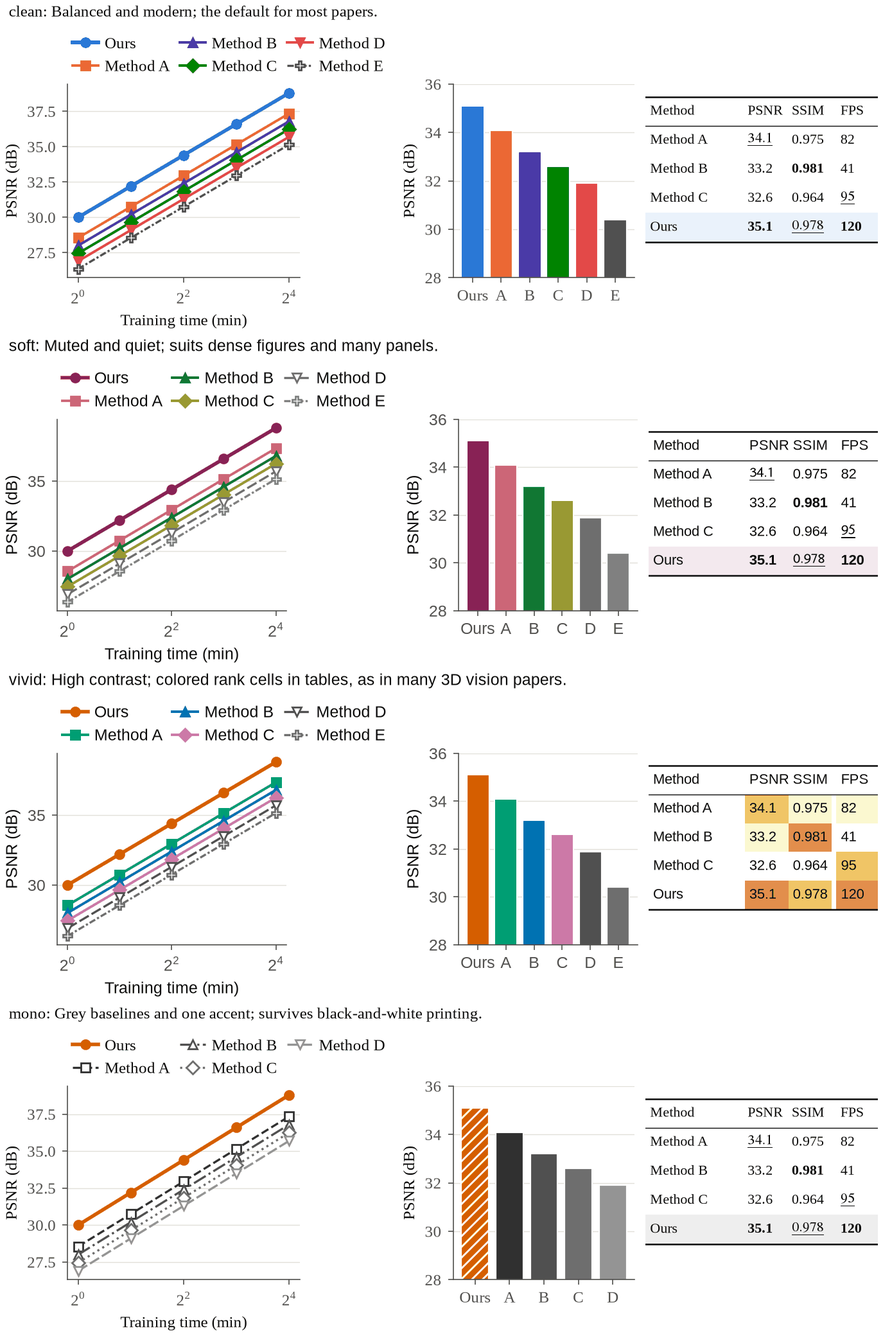
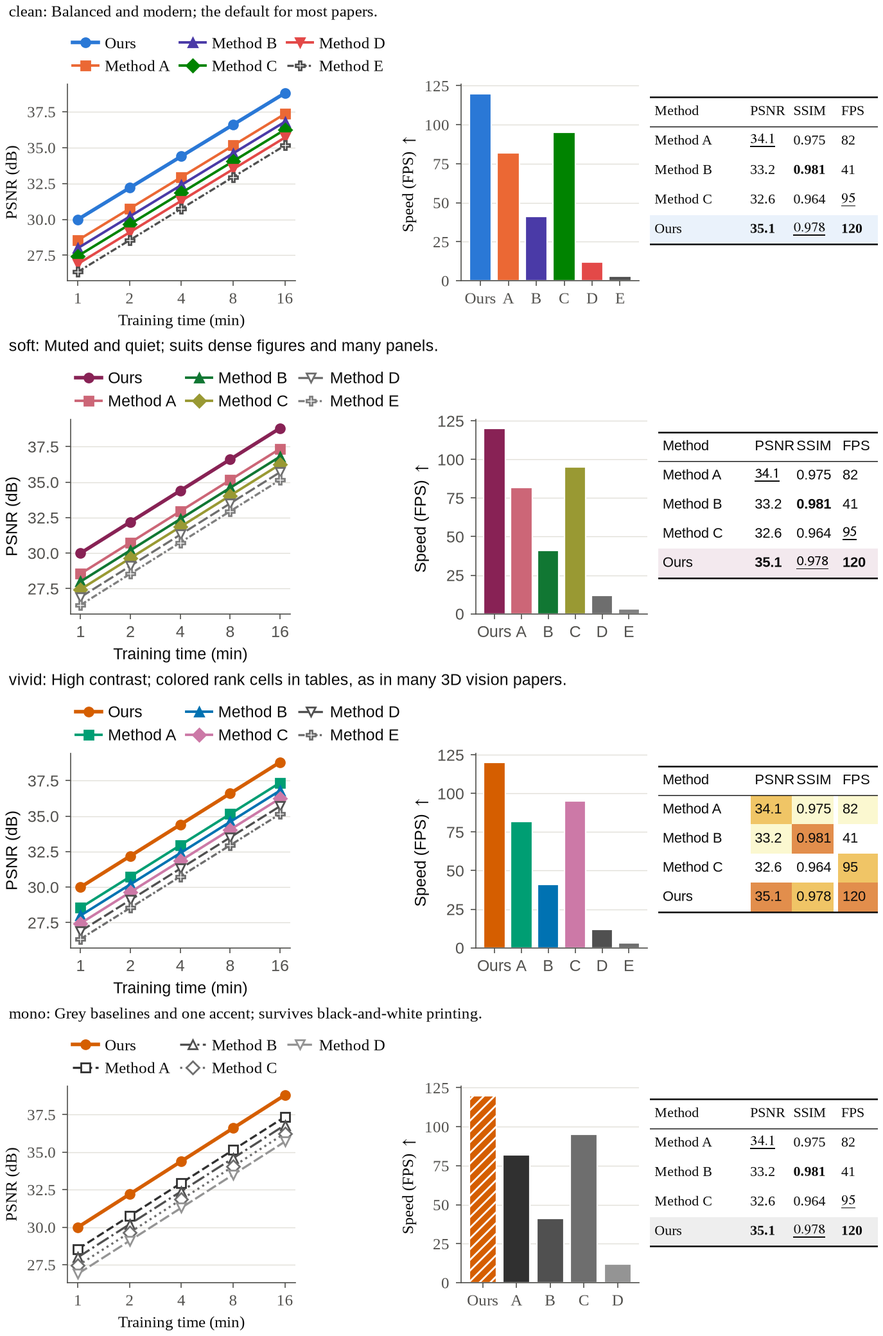
Pick the figure form from the message before drawing
Add "Pick the Form for the Message" to figure-table-styles.md: write the
message first, name the comparison, pick the form from a message-to-form
table, test it at print size, plus worked examples and forms to avoid.
Add scripts/figure_forms.py with one function per plot form and a gallery
(docs/figure-forms.png). A2.1, A2.6, and the Output Contract now ask for
the message and form of each figure. The style preview's bar chart now
starts at zero, as the new guide requires.

Claude-Session: https://claude.ai/code/session_01781meZ7Cfd1gjd3kFhT1wL

diff --git a/research-paper-writing/scripts/figure_forms.py b/research-paper-writing/scripts/figure_forms.py
@@ -1,0 +1,219 @@
+#!/usr/bin/env python3
+r"""Plot forms for the most common messages of ML papers, drawn with paperstyle.
+
+Write the message first, pick its form in references/figure-table-styles.md
+("Pick the Form for the Message"), then copy this file and paperstyle.py next
+to your figure code and call the matching function with your own data:
+
+    import matplotlib.pyplot as plt
+    import paperstyle, figure_forms as ff
+    paperstyle.use("clean")
+    st = paperstyle.method_styles(ALL_METHODS, ours="Ours")  # every method, table order
+    fig, ax = plt.subplots()                                   # one column: 3.25 x 2.2 in
+    ff.tradeoff(ax, st, {"Ours": (110, 33.6), "Method A": (2, 33.1)},
+                r"Speed (FPS) $\uparrow$", r"PSNR (dB) $\uparrow$")
+    fig.savefig("figures/tradeoff.pdf")
+
+The functions draw no legend, so one legend can serve all panels of a figure.
+From the command line, draw every form with illustrative data:
+
+    python3 figure_forms.py clean figure-forms.png   # needs matplotlib
+"""
+import sys
+
+import paperstyle
+
+OURS = "Ours"
+LOSS = "#8e8e8e"  # bars where ours loses: grey, so the gains carry the accent
+
+
+def _log_x(ax):
+    """Log x-axis with plain tick labels (0.1, 1, 10), not powers of ten."""
+    from matplotlib.ticker import FuncFormatter, NullFormatter
+    ax.set_xscale("log")
+    ax.xaxis.set_major_formatter(FuncFormatter(lambda v, _: f"{v:g}"))
+    ax.xaxis.set_minor_formatter(NullFormatter())
+
+
+def tradeoff(ax, st, points, xlabel, ylabel, logx=True, nudge=None, ours=OURS):
+    """Better and cheaper: one point per method, quality against cost.
+
+    points maps a method to (cost, quality). Put cost on a log axis when it
+    spans orders of magnitude. Ours should sit alone in the best corner.
+    Points carry direct labels; nudge maps a method to a label offset in points.
+    """
+    nudge = nudge or {}
+    for m, (x, y) in points.items():
+        s = st[m]
+        ax.plot(x, y, linestyle="none", marker=s["marker"], color=s["color"],
+                markerfacecolor=s.get("markerfacecolor", s["color"]),
+                markersize=8 if m == ours else 6, zorder=s["zorder"])
+        ax.annotate(m, (x, y), textcoords="offset points", xytext=nudge.get(m, (6, 3)),
+                    fontweight="bold" if m == ours else "normal")
+    if logx:
+        _log_x(ax)
+    ax.set_xlabel(xlabel)
+    ax.set_ylabel(ylabel)
+
+
+def curves(ax, st, x, ys, xlabel, ylabel, logx=False):
+    """A trend over a setting (data size, noise level, iterations): one line per method.
+
+    ys maps a method to its values at x. Put x on a log axis for sizes that
+    grow by factors (data, parameters, compute).
+    """
+    for m, y in ys.items():
+        ax.plot(x, y, label=m, **st[m])
+    if logx:
+        _log_x(ax)
+    ax.set_xlabel(xlabel)
+    ax.set_ylabel(ylabel)
+
+
+def gain_bars(ax, gains, xlabel, color, loss_color=LOSS):
+    """Where the gain comes from: ours minus the best baseline for each group.
+
+    gains maps a group (category, difficulty bin, dataset) to the gain. Bars
+    are sorted, start at zero, and keep losses visible in grey.
+    """
+    items = sorted(gains.items(), key=lambda kv: kv[1])
+    vals = [v for _, v in items]
+    ax.barh([k for k, _ in items], vals, height=0.7,
+            color=[color if v >= 0 else loss_color for v in vals])
+    ax.axvline(0, color=paperstyle.INK_2, linewidth=0.8)
+    ax.yaxis.grid(False)
+    ax.xaxis.grid(True)
+    ax.tick_params(axis="y", length=0)
+    ax.set_xlabel(xlabel)
+
+
+def cdf(ax, st, samples, xlabel, logx=True, points=60):
+    """Consistency and failures: the share of samples with an error at most x.
+
+    samples maps a method to its per-sample errors. A curve further up and
+    to the left is better; where it reaches 100% shows the tail of large errors.
+    """
+    import numpy as np
+    values = {m: np.sort(np.asarray(v, dtype=float)) for m, v in samples.items()}
+    both = np.concatenate(list(values.values()))
+    lo, hi = (both[both > 0].min() if logx else both.min()), both.max()
+    grid = np.geomspace(lo, hi, points) if logx else np.linspace(lo, hi, points)
+    for m, v in values.items():
+        share = np.searchsorted(v, grid, side="right") / len(v) * 100
+        ax.plot(grid, share, label=m, markevery=max(1, points // 6), **st[m])
+    if logx:
+        _log_x(ax)
+    ax.set_ylim(0, 102)
+    ax.set_xlabel(xlabel)
+    ax.set_ylabel("Samples below this error (%)")
+
+
+def sensitivity(ax, style, x, y, default, xlabel, ylabel, reference=None,
+                reference_label="Best baseline", stable=None, logx=True):
+    """Insensitive to a setting: ours over the range of one hyperparameter.
+
+    style is the style of ours from method_styles. The dotted line marks the
+    default; the dashed grey line is the best baseline, so the reader sees
+    how far ours stays ahead; stable=(low, high) shades the range to point out.
+    """
+    if stable:
+        ax.axvspan(*stable, color=style["color"], alpha=0.08, linewidth=0)
+    if reference is not None:
+        ax.axhline(reference, color=LOSS, linestyle="--", linewidth=1.2)
+        ax.annotate(reference_label, (x[0], reference), textcoords="offset points",
+                    xytext=(0, -11))
+    ax.axvline(default, color=paperstyle.INK_2, linestyle=":", linewidth=1.0)
+    ax.annotate("default", (default, 1), xycoords=("data", "axes fraction"),
+                textcoords="offset points", xytext=(3, -10))
+    ax.plot(x, y, **style)
+    if logx:
+        _log_x(ax)
+    ax.set_xlabel(xlabel)
+    ax.set_ylabel(ylabel)
+
+
+def _title(ax, message, form):
+    """The message in bold; the form it calls for below it, in grey."""
+    ax.set_title(message, loc="left", fontweight="bold", pad=16)
+    ax.annotate(form, (0, 1), xycoords="axes fraction", textcoords="offset points",
+                xytext=(0, 5), color=paperstyle.INK_2, style="italic")
+
+
+def gallery(scheme, path):
+    """Every form above with illustrative data, one column-wide panel each."""
+    import matplotlib
+    matplotlib.use("Agg")
+    import matplotlib.pyplot as plt
+    import numpy as np
+    s = paperstyle.use(scheme)
+    methods = [OURS, "Method A", "Method B", "Method C"]
+    st = paperstyle.method_styles(methods, ours=OURS, scheme=scheme)
+    fig, axes = plt.subplots(3, 2, figsize=(6.875, 7.6))
+    (a, b), (c, d), (e, f) = axes
+
+    tradeoff(a, st, {OURS: (110, 33.6), "Method A": (2, 33.1), "Method B": (15, 31.2),
+                     "Method C": (140, 29.0)},
+             r"Speed (FPS, log scale) $\uparrow$", r"PSNR (dB) $\uparrow$",
+             nudge={"Method C": (-18, 7)})
+    a.set_xlim(0.8, 400)
+    _title(a, "(a) Only ours is both fast and accurate",
+           "Better and cheaper: scatter, cost on a log axis")
+
+    frac = [1, 3, 10, 30, 100]
+    curves(b, st, frac, {OURS: [62, 71, 78.5, 82, 84], "Method A": [52, 60, 68, 73.5, 77],
+                         "Method B": [48, 57, 65, 71, 75], "Method C": [44, 53, 61, 67.5, 72]},
+           "Training data used (%, log scale)", r"Accuracy (%) $\uparrow$", logx=True)
+    b.axhline(77, color=LOSS, linestyle=":", linewidth=1.0, zorder=1)
+    b.annotate("Method A at 100%", (1, 77), textcoords="offset points", xytext=(0, 3))
+    b.set_xticks(frac, [str(v) for v in frac])
+    _title(b, "(b) Ours at 10% data beats baselines at 100%",
+           "Scales with data: lines, size on a log axis")
+
+    noise = [0, 0.1, 0.2, 0.3, 0.4, 0.5]
+    curves(c, st, noise, {OURS: [85, 84, 82, 79, 75, 70], "Method A": [84, 80, 72, 62, 52, 43],
+                          "Method B": [82, 77, 69, 60, 51, 42], "Method C": [80, 73, 63, 53, 44, 36]},
+           r"Input noise level $\sigma$", r"Accuracy (%) $\uparrow$")
+    _title(c, "(c) Ours degrades least as noise grows",
+           "Robust to harder inputs: lines over difficulty")
+
+    gain_bars(d, {"pole": 6.8, "fence": 5.1, "bicycle": 4.6, "traffic sign": 3.9,
+                  "person": 1.5, "car": 0.6, "road": 0.1, "sky": -0.4},
+              "IoU gain over the best baseline (points)", s["ours"])
+    _title(d, "(d) The gain comes from thin structures",
+           "Where the gain comes from: sorted gain bars")
+
+    rng = np.random.default_rng(0)
+    errors = {m: rng.lognormal(np.log(med), sig, 2000) for m, med, sig in
+              ((OURS, 0.7, 0.6), ("Method A", 1.1, 0.8), ("Method B", 1.4, 0.85),
+               ("Method C", 1.7, 0.9))}
+    cdf(e, st, errors, r"Rotation error ($^\circ$, log scale)")
+    _title(e, "(e) Ours cuts the tail of large errors",
+           "Fewer failures: cumulative error curve")
+
+    lam = [0.01, 0.03, 0.1, 0.3, 1, 3, 10, 30, 100]
+    sensitivity(f, st[OURS], lam, [79, 81.5, 83.4, 83.8, 84.0, 83.9, 83.5, 81.8, 78.5], 1,
+                r"Loss weight $\lambda$ (log scale)", r"Accuracy (%) $\uparrow$",
+                reference=77, stable=(0.1, 10))
+    f.set_ylim(75, 86)
+    _title(f, r"(f) Ours is stable for $\lambda$ from 0.1 to 10",
+           "Insensitive to a setting: line, default marked")
+
+    handles = [plt.Line2D([], [], **st[m]) for m in methods]
+    try:
+        fig.legend(handles, methods, loc="outside upper center", ncol=4)
+    except ValueError:  # matplotlib older than 3.7
+        fig.legend(handles, methods, loc="lower center", ncol=4, bbox_to_anchor=(0.5, 1.0))
+    fig.savefig(path, dpi=200, bbox_inches="tight")
+    plt.close(fig)
+
+
+def main(argv):
+    if len(argv) == 2 and argv[0] in paperstyle.SCHEMES:
+        gallery(*argv)
+        return 0
+    sys.stderr.write(__doc__)
+    return 2
+
+
+if __name__ == "__main__":
+    sys.exit(main(sys.argv[1:]))

diff --git a/research-paper-writing/scripts/paperstyle.py b/research-paper-writing/scripts/paperstyle.py
@@ -243,18 +243,19 @@ def preview(scheme, path):
         y = 30 + 2.2 * np.log2(x) - (0 if m == "Ours" else 0.9 + 0.55 * i)
         ax.plot(x, y, label=m, **st[m])
     ax.set_xscale("log", base=2)
+    ax.set_xticks(x, [str(v) for v in x])  # plain labels, not powers of two
+    ax.minorticks_off()
     ax.set_xlabel("Training time (min)")
     ax.set_ylabel("PSNR (dB)")
     ax.legend(ncol=3, loc="lower left", bbox_to_anchor=(-0.02, 1.0), handlelength=1.6,
               columnspacing=0.6, handletextpad=0.4, borderaxespad=0.2)
     ax = axes[1]
-    vals = [35.1, 34.1, 33.2, 32.6, 31.9, 30.4][:len(methods)]
+    vals = [120, 82, 41, 95, 12, 3][:len(methods)]  # bars start at zero: a measure with a true zero
     bars = ax.bar(range(len(methods)), vals, color=[st[m]["color"] for m in methods])
     if s.get("ours_hatch"):
         bars[0].set_hatch(s["ours_hatch"])
     ax.set_xticks(range(len(methods)), [m.replace("Method ", "") for m in methods])
-    ax.set_ylim(28, 36)
-    ax.set_ylabel("PSNR (dB)")
+    ax.set_ylabel(r"Speed (FPS) $\uparrow$")
     ax = axes[2]
     ax.axis("off")
     rows = [("Method", "PSNR", "SSIM", "FPS"), ("Method A", "34.1", "0.975", "82"),

diff --git a/research-paper-writing/references/figure-table-styles.md b/research-paper-writing/references/figure-table-styles.md
@@ -1,6 +1,61 @@
-# Figure and Table Style Schemes
+# Figures and Tables: Form and Style
 
-Read this file before you create or restyle any plot, diagram, or table. Pick one scheme for the whole paper and use it everywhere. Every value below comes from `scripts/paperstyle.py`, the single source of truth; regenerate from it instead of copying hex codes by hand.
+Read this file before you create or restyle any plot, diagram, or table. First pick the form that shows the message, then style it with one scheme for the whole paper. Form comes before color: a plain chart of the right form beats a polished chart of the wrong one. Every style value below comes from `scripts/paperstyle.py`, the single source of truth; regenerate from it instead of copying hex codes by hand.
+
+## Pick the Form for the Message
+
+Decide what a figure must say before you decide what it looks like.
+
+1. Write the message as one sentence with a number, e.g., "Ours keeps 70% accuracy at noise level 0.5, while every baseline falls below 45%." It becomes the caption's bold takeaway (A2.4). If you cannot write it, do not make the figure (A2.1).
+2. Name the comparison inside the message: ours against which methods, and along which variable. The variable can be a cost, a data size, a difficulty level, a category, or an image region.
+3. Pick the form from the table below. Make that comparison the most visible thing in the figure. Put the compared items next to each other on one shared axis, highlight ours, and let nothing else compete for attention.
+4. Draw it at print size with real data or marked placeholders. Then test it: from the figure and its bold takeaway alone, can a reader confirm the message within five seconds? If not, change the form, not the colors.
+5. Put numbers that readers will cite or compare against in a table. Put trends, trade-offs, and distributions in a plot. When both matter, plot in the main text and give the full table in the Appendix.
+6. When you reproduce a figure of the closest work (Core Workflow step 2 in `SKILL.md`), keep its form so readers can compare the two papers. If that form breaks a rule in this file, e.g., a dual axis, keep the analysis and fix the form.
+
+`scripts/figure_forms.py` draws the plot forms of the table with the chosen scheme: `tradeoff`, `curves`, `gain_bars`, `cdf`, and `sensitivity`. Copy it next to `paperstyle.py` and pass your own data. `python3 <this skill's directory>/scripts/figure_forms.py clean forms.png` renders its gallery, panels (a)-(f) in the table, with illustrative data; look at it before drawing your own.
+
+| What you want to say | Form that shows it | Avoid |
+|---|---|---|
+| Ours beats the baselines on standard benchmarks. | Table: methods in rows, metrics with ↑ or ↓ in columns, best and second marked. | A bar chart of numbers that are already in a table. |
+| Ours is better and cheaper (speed, memory, parameters, data). | Scatter: cost on a log x-axis, quality on y, one labeled point per method, ours alone in the best corner. Panel (a), `tradeoff`. | Two bar charts, one per measure; a dual-axis chart. |
+| The gain grows, or holds, with scale (data, model size, compute, input views). | Lines: scale on a log x-axis, one line per method. Mark where ours matches the best result of a baseline. Panel (b), `curves`. | A table with one column per size. |
+| Ours degrades least on harder inputs (noise, occlusion, sparsity, length). | Lines: difficulty on x, the metric on y, clean inputs at the left. Panel (c), `curves`. | Bars for each level; a table the reader must subtract. |
+| The gain comes from specific cases (categories, difficulty bins, datasets). | Bars of ours minus the best baseline, sorted, starting at zero, losses in grey. Panel (d), `gain_bars`. Or the standard split of the benchmark, e.g., AP on small, medium, and large objects. | A long per-class table in the main text. |
+| Ours fails less often, or less badly. | Cumulative error curve: the share of samples below each error. Panel (e), `cdf`. A box plot also works. | The mean alone, which hides the tail. |
+| Ours is insensitive to a hyperparameter. | A line over its range (log x when the range spans factors), the default marked, the best baseline as a dashed reference. Panel (f), `sensitivity`. | A table of ten values. |
+| Ours trains faster or more stably. | Training curves over iterations or wall-clock time, `curves`; the mean of several seeds with a shaded band (`ax.fill_between`). | One seed; only the final number. |
+| Each component matters. | Ablation table: one row per variant, one column for the change from the full model. Add a qualitative row when a component fixes a visible artifact. | Bars that differ by a fraction of a unit. |
+| Ours fixes a visible failure (artifacts, blur, wrong geometry). | Qualitative grid: inputs in rows, methods in table order and the ground truth in columns, zoom-in crops on the failure (Rule 10). | Full images too small to show the difference; only easy cases. |
+| What the model learns or attends to. | Maps overlaid on the input (attention, error, depth) with a sequential colormap (Rule 7). | Rainbow colormaps; an embedding plot (t-SNE) without an observation. |
+| How the method works. | Pipeline diagram (`references/method.md`, Rule 11). | A diagram of every layer. |
+| The key idea, at first glance. | Teaser (Part D of `references/introduction.md`). | A teaser that repeats the pipeline figure. |
+
+### Worked Examples
+
+1. Message: "Ours matches the best PSNR at 50× the speed."
+   - First idea: two bar charts, one for PSNR and one for FPS. The reader must pair bars across the panels to see the trade-off.
+   - Better: one scatter with FPS on a log x-axis and PSNR on y; ours sits alone in the upper right (panel (a)). Caption: "**Ours matches the best PSNR at 50× the speed.** PSNR and FPS on [dataset], measured on one [GPU]."
+2. Message: "Our lead grows as the input views get sparser."
+   - First idea: one more column in the main table for the sparse setting.
+   - Better: PSNR against the number of input views (3, 6, 9, 12, 24), one line per method. The gap visibly widens toward the left.
+3. Message: "Without module X, floaters come back around thin structures."
+   - First idea: only the ablation table, where a 0.3 dB drop reads as noise.
+   - Better: keep the table and add one qualitative row with zoom-ins on thin structures: the full model against the variant without X.
+4. Message: "Most of our gain is on small objects."
+   - First idea: bars of overall AP for all methods, which repeat Table 1.
+   - Better: the AP on small, medium, and large objects in the main table, or gain bars for each size (panel (d)).
+
+### Forms to Avoid
+
+- Pie and donut charts: angles are hard to compare. Use sorted bars or a table.
+- 3D bars, 3D pies, and shadows: perspective distorts the values.
+- Bars on a truncated axis: a bar's length encodes its value, so bars start at zero. For small differences between large values, plot the difference (panel (d)) or use a table.
+- Radar charts: the shape depends on the order and scale of the axes. Use a table or grouped bars.
+- Dual y-axes (Rule 6).
+- A number on every point: label only the points the message is about.
+- More than about six lines in one panel: grey out the lines that are not the point, or split them into panels with shared axes.
+- A figure that repeats a table: cut one of them (A2.1).
 
 ## Choose a Scheme
 

diff --git a/research-paper-writing/SKILL.md b/research-paper-writing/SKILL.md
@@ -60,12 +60,12 @@ Apply these rules whenever you write or edit text, in any section. Table layout 
 
 #### A2. Figures and Floats
 
-1. Make a figure or table only to show an advantage of our method or a non-obvious finding, never for decoration. State its conclusion in the caption's bold takeaway and analyze it in the text: what it shows, why, and what follows. Each supports a different conclusion; merge or cut any that repeats another's message or has no conclusion.
+1. Make a figure or table only to show an advantage of our method or a non-obvious finding, never for decoration. Write its conclusion before drawing, and pick the form that shows it at a glance (A2.6). State the conclusion in the caption's bold takeaway and analyze it in the text: what it shows, why, and what follows. Each supports a different conclusion; merge or cut any that repeats another's message or has no conclusion.
 2. Use vector PDF for plots and diagrams; text inside a figure should be no smaller than the caption font.
 3. Give each method the same name, color, and order in every figure and table, and always highlight ours.
 4. Start each caption with a bold one-line takeaway, then add what is needed to read the figure without the main text. Figure captions go below, table captions above.
 5. Except for the teaser, a figure, table, or algorithm must appear after the text that mainly introduces it and inside the same (sub)section. Put its source right after that paragraph; `flafter` keeps it from appearing earlier, and `\FloatBarrier` (`placeins`) before the next (sub)section keeps it from drifting out. If the barrier leaves white space (A1.6), move the source earlier, still after its first mention, or resize the float. Check the compiled PDF.
-6. Use one style scheme from `references/figure-table-styles.md` for every figure and table; read that file before creating or restyling one. If the user has not chosen a scheme, ask with the ask-user tool.
+6. Read `references/figure-table-styles.md` before creating or restyling a figure or table: pick the form for its message there, and use one style scheme for all of them. If the user has not chosen a scheme, ask with the ask-user tool.
 7. The main text has at least 3 figures, 4 when space allows (e.g., teaser, pipeline, qualitative comparison, analysis). Each must carry a key message (A2.1); never add one only to reach the count.
 
 #### A3. Math
@@ -137,7 +137,7 @@ Load only the needed section file:
 - Preliminary (optional; when the paper relies on a technique uncommon in its field, or the task needs a formal definition): `references/preliminary.md`
 - Method: `references/method.md`
 - Experiments: `references/experiments.md`
-- Figures and tables (style schemes; read before creating or restyling any): `references/figure-table-styles.md`
+- Figures and tables (form and style; read before making any, A2.6): `references/figure-table-styles.md`
 - Conclusion: `references/conclusion.md`
 - Paper review (Paper Review): `references/paper-review.md`
 - Paragraph clarity check and reverse outlining: `references/paragraph-clarity.md`
@@ -189,3 +189,4 @@ After any edit, including a final polish, also return:
 6. A Writing Rules report with one line per group (A1-A4, B1-B4) giving the status of each rule in it, for example `A4: 1 fixed, 2 pass, 3 fixed, 4 pass, 5 pass, 6 fixed, 7 pass, 8 not checked (6 entries in the .bib)`. A status is pass, fixed, or not checked (with the reason); never mark a rule pass without checking it.
 7. For a final polish: a short change log with one example per type of change, and the `[TODO]` items that need the author.
 8. A setup line: the venue and template, the path of the Appendix or Supplementary file, and, when Experiments, figures, or tables were touched, the closest-work plan with the status of each item.
+9. For each figure or table you created or changed, one line with its message and the form chosen for it, e.g., `Fig. 4: ours degrades least as noise grows; lines over noise level`.

diff --git a/README.md b/README.md
@@ -19,6 +19,7 @@ This repository currently provides one skill package:
   - `references/`: section-specific writing guides and templates
   - `scripts/check_tex.py`: rule checker the agent runs after every edit (Python 3, standard library only)
   - `scripts/paperstyle.py`: figure and table style schemes (matplotlib settings, fixed method colors, LaTeX table macros)
+  - `scripts/figure_forms.py`: one plot form for each common message (trade-off, scaling, robustness, per-category gain, error distribution, sensitivity), drawn with `paperstyle`
   - `agents/openai.yaml`: agent metadata
 
 Typical use cases:
@@ -28,7 +29,11 @@ Typical use cases:
 - Checking claim-evidence alignment
 - Running pre-submission self-review from a reviewer mindset
 
-## Figure and Table Styles
+## Figures and Tables
+
+Before drawing, the agent writes the message of a figure in one sentence and picks the form that shows it. For example, "better and cheaper" calls for a scatter with cost on a log axis, and "where the gain comes from" calls for sorted gain bars. The table of messages and forms, worked examples, and forms to avoid are in `research-paper-writing/references/figure-table-styles.md`. `scripts/figure_forms.py` draws each form (illustrative data below):
+
+![Plot forms for six common messages](docs/figure-forms.png)
 
 The skill defines four style schemes: `clean` (default), `soft`, `vivid`, and `mono` (black-and-white print). The agent uses one scheme for every figure and table in a paper and asks you to choose if you have not. Details: `research-paper-writing/references/figure-table-styles.md`.
 

diff --git a/research-paper-writing/references/experiments.md b/research-paper-writing/references/experiments.md
@@ -22,7 +22,7 @@ Convince reviewers with complete evidence on effectiveness, causality, and pract
 
 ## Experiment Planning
 
-Every figure and table must show an advantage of our method or a non-obvious finding (Writing Rule A2.1 in `SKILL.md`). Beyond the analyses of the closest work, look for where ours differs most: hard cases where baselines fail, trade-offs (quality against speed, memory, or data), scaling with data or model size, robustness to noise or sparse input, and per-category breakdowns that show where the gain comes from. Before making a figure or table, write its one-line conclusion; if you cannot, do not make it.
+Every figure and table must show an advantage of our method or a non-obvious finding (Writing Rule A2.1 in `SKILL.md`). Beyond the analyses of the closest work, look for where ours differs most: hard cases where baselines fail, trade-offs (quality against speed, memory, or data), scaling with data or model size, robustness to noise or sparse input, and per-category breakdowns that show where the gain comes from. Before making a figure or table, write its one-line conclusion; if you cannot, do not make it. Then pick the form that shows that conclusion from the table in `references/figure-table-styles.md`.
 
 Before writing Experiments or making any figure or table, write the closest-work plan (Core Workflow step 2 in `SKILL.md`):
 

diff --git a/README_zh.md b/README_zh.md
@@ -17,6 +17,7 @@
   - `references/`：按章节拆分的写作指南与模板
   - `scripts/check_tex.py`：Agent 每次修改后运行的规则检查脚本（Python 3，仅用标准库）
   - `scripts/paperstyle.py`：图表美化方案（matplotlib 设置、固定的方法配色、LaTeX 表格宏）
+  - `scripts/figure_forms.py`：常见结论对应的画法（权衡、规模扩展、鲁棒性、分类别增益、误差分布、超参数敏感性），用 `paperstyle` 绘制
   - `agents/openai.yaml`：Agent 元信息
 
 常见使用场景：
@@ -25,6 +26,12 @@
 - 改善段落衔接与章节逻辑
 - 做 claim-evidence 对齐检查
 - 提交前从 reviewer 视角进行自审
+
+## 先想结论，再选图形
+
+画图之前，agent 先用一句话写下这张图要表达的结论，再选最能体现它的图形。例如“又好又省”用散点图（成本取对数轴），“提升来自哪里”用排序的增益条形图。结论与图形的对照表、改写示例和应避免的图形见 `research-paper-writing/references/figure-table-styles.md`。`scripts/figure_forms.py` 可直接画出每种图形（下图为示意数据）：
+
+![六种常见结论对应的图形](docs/figure-forms.png)
 
 ## 图表美化方案
 
